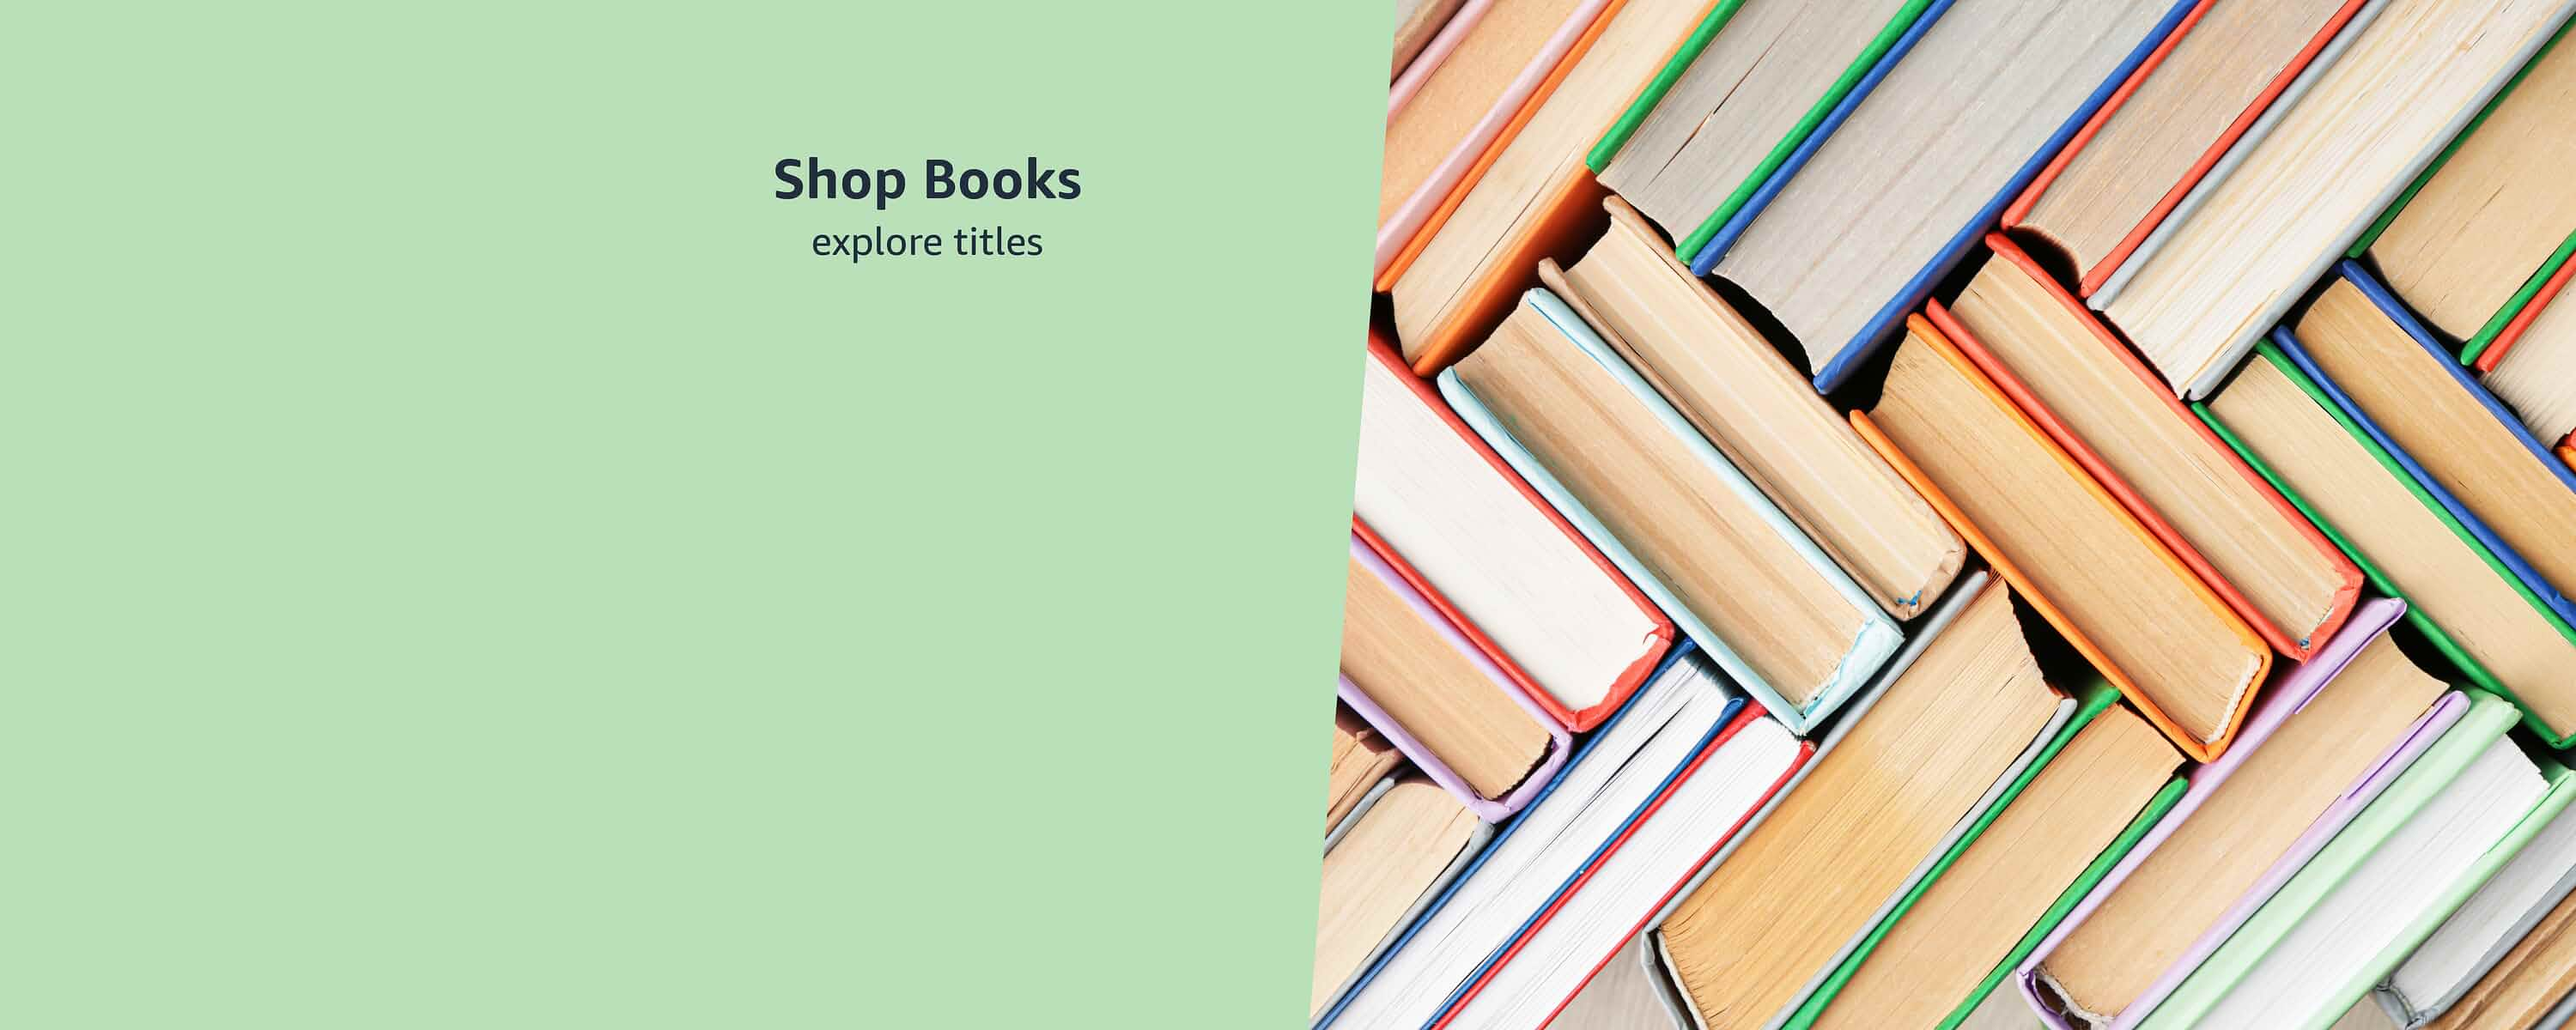
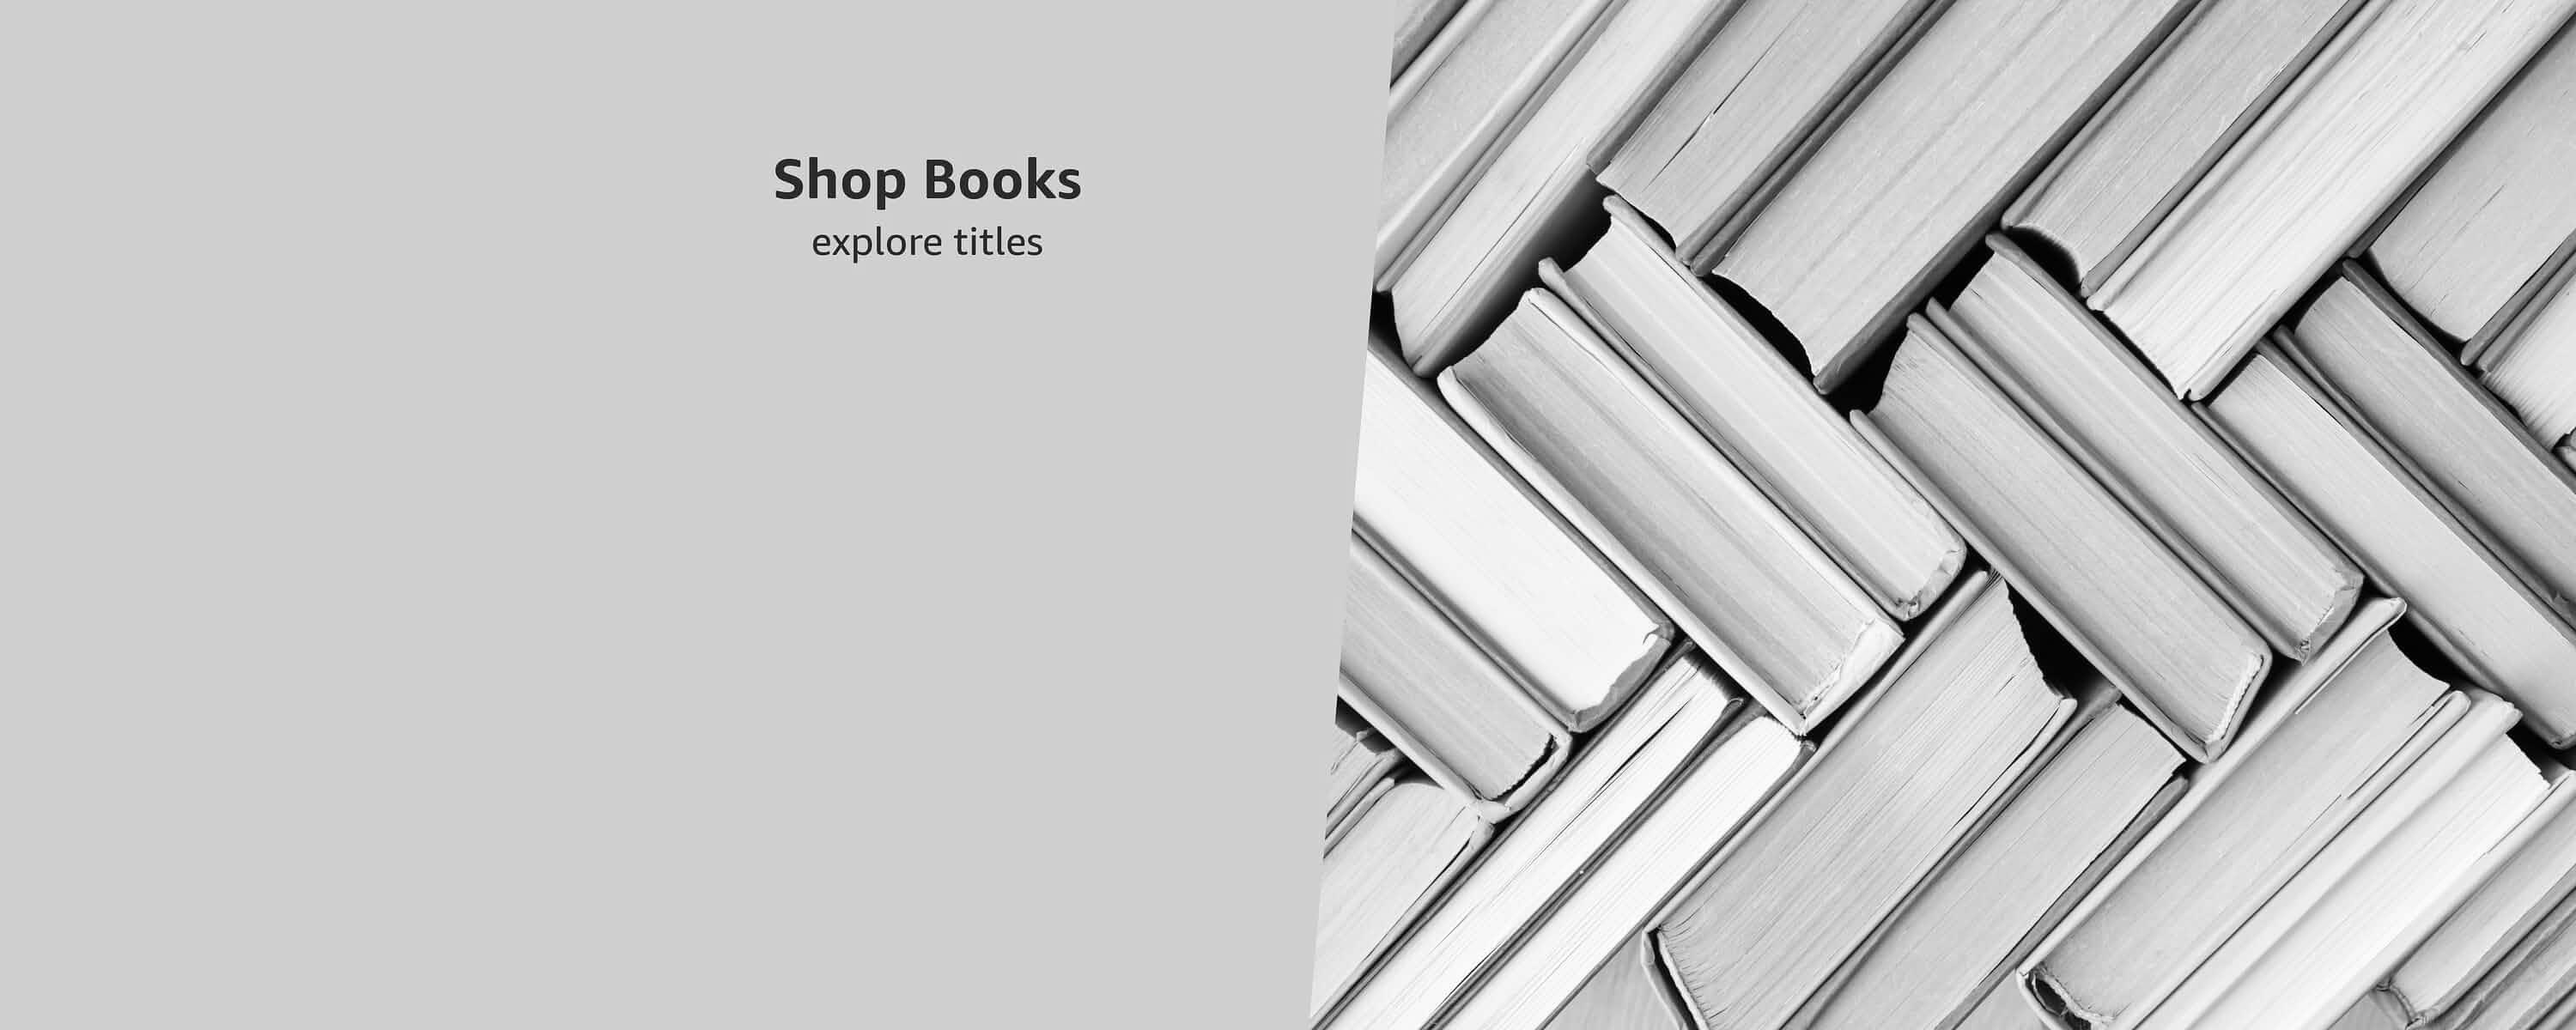
css grey filter didnt size correctly with img so did it manually instead and removed css grey filter

Changed region(s): [[0.496, 0.0, 1.0, 1.0], [0.93, 0.8633, 1.0, 1.0], [0.31, 0.1542, 0.434, 0.2467]]

diff --git a/src/app/quotes/quotes.component.css b/src/app/quotes/quotes.component.css
@@ -9,27 +9,16 @@
   flex-grow: 1;
 }
 
+
 .bg-section {
   background-image: url('/amz-bg.jpg');
   background-size: cover;
   background-position: center;
   position: relative;
   height: 120vh;
-  width: 100%;
-  height: 100%;
+  object-fit: fill;
+  overflow: auto;
 }
-
-
-  .bg-section::before {
-    content: '';
-    position: absolute;
-    top: 0;
-    left: 0;
-    width: 100%;
-    height: 100%;
-    background-color: rgba(128, 128, 128, 0.5);
-  }
-
 
 .navbar-toggler:focus {
   box-shadow: none;

diff --git a/src/app/home/home.component.css b/src/app/home/home.component.css
@@ -15,21 +15,9 @@
   background-position: center;
   position: relative;
   height: 120vh;
-  width: 100%;
-  height: 100%;
+  object-fit: fill;
+  overflow: auto;
 }
-
-
-  .bg-section::before {
-    content: '';
-    position: absolute;
-    top: 0;
-    left: 0;
-    width: 100%;
-    height: 100%;
-    background-color: rgba(128, 128, 128, 0.5);
-  }
-
 
 .navbar-toggler:focus {
   box-shadow: none;
